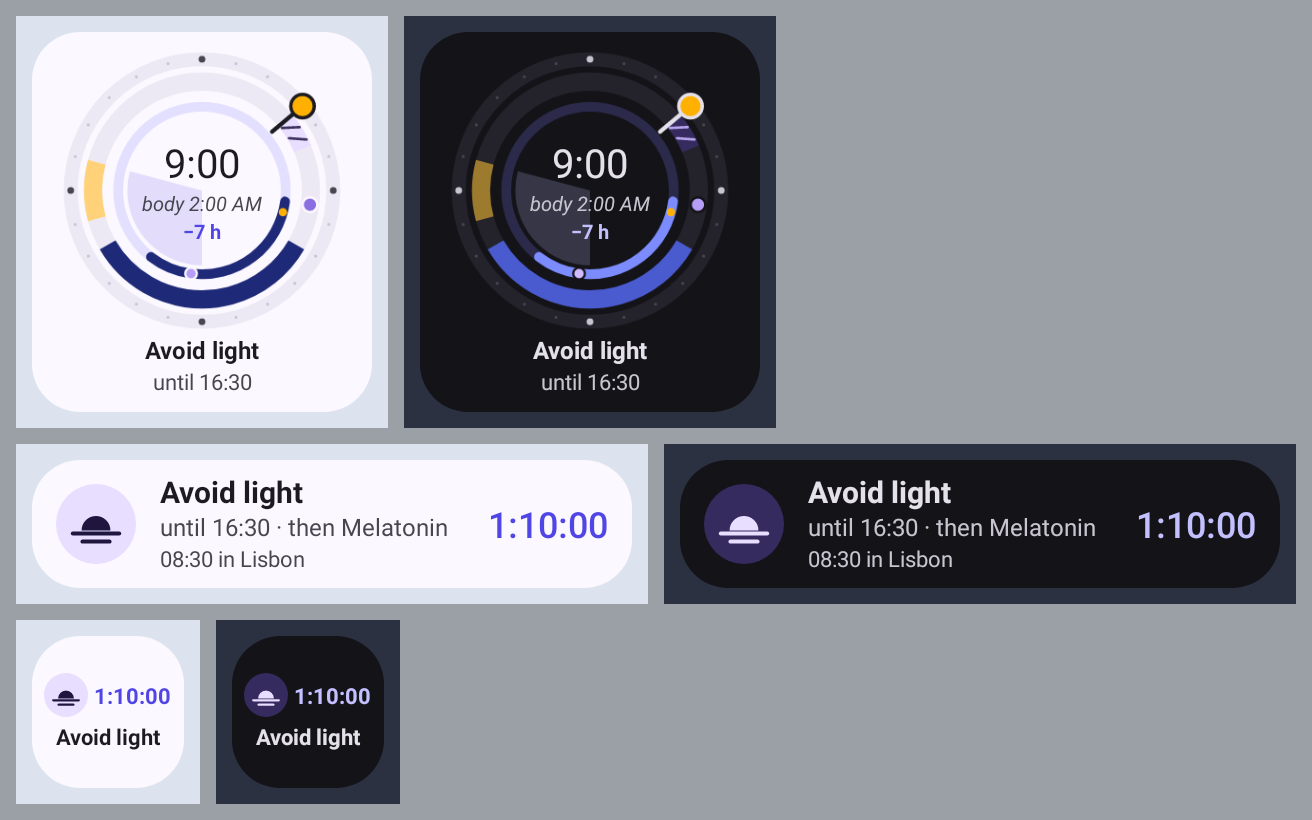
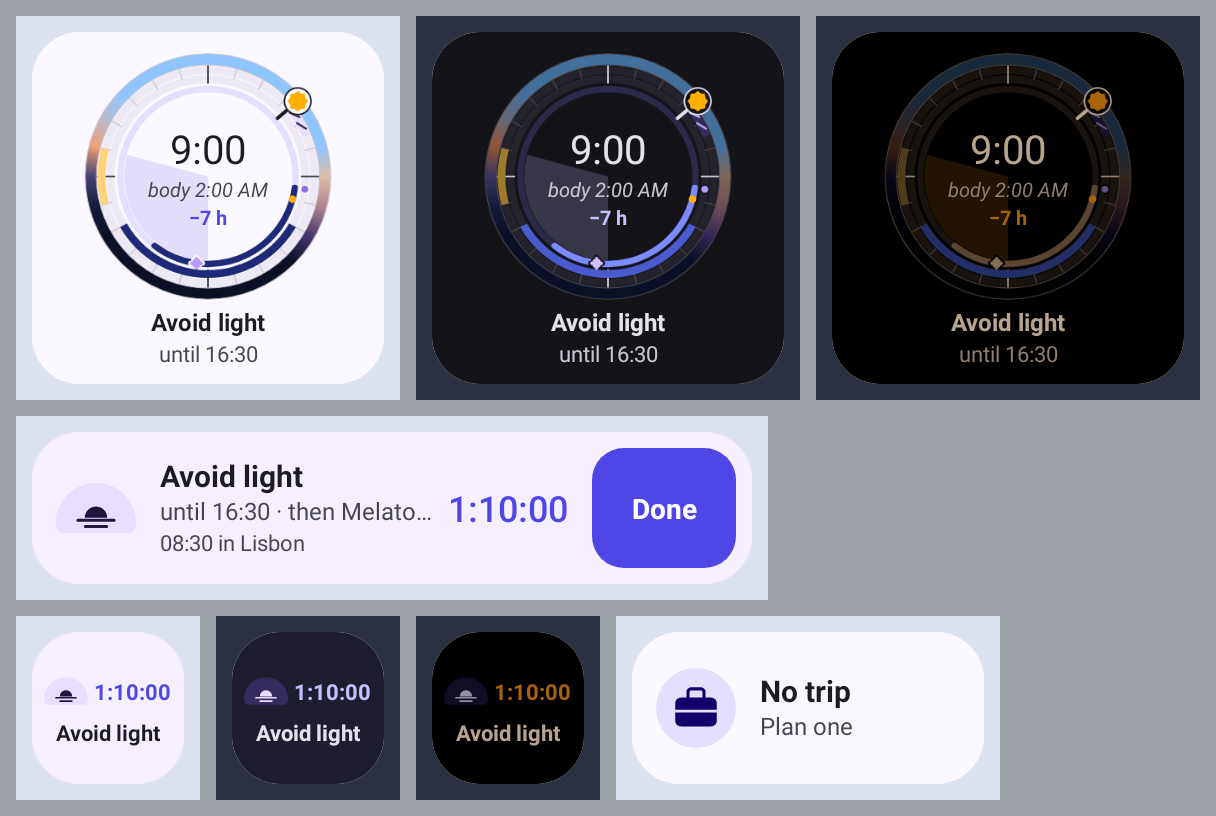
docs: widget sizes, Done, night-safe theme and refreshed goldens

diff --git a/widget/src/main/kotlin/dev/sebastiano/clockblocker/opus/widget/draw/WidgetPalette.kt b/widget/src/main/kotlin/dev/sebastiano/clockblocker/opus/widget/draw/WidgetPalette.kt
@@ -74,8 +74,6 @@ data class WidgetPalette(
     }
 
     companion object {
-        fun of(dark: Boolean): WidgetPalette = if (dark) Dark else Light
-
         fun of(theme: WidgetTheme): WidgetPalette = when (theme) {
             WidgetTheme.Light -> Light
             WidgetTheme.Dark -> Dark

diff --git a/docs/surfaces.md b/docs/surfaces.md
@@ -162,16 +162,55 @@ The `:widget` module provides two widgets. Both can be placed on the home screen
 category too, which matters on tablets and in hub mode. On phones, the lock-screen view of the plan is the Now
 notification.
 
-![Two Clocks widgets in light and dark at 2×2 and 4×2, plus the empty state "No trip, Plan one"](screenshots/widgets/remote_two_clocks.png)
+![Two Clocks widgets: the 2×2 dial in light, dark and night-safe, the empty state "No trip, Plan one", and the 4×2 layout with its now card and Done button](screenshots/widgets/remote_two_clocks.png)
 
-The *Two Clocks* widget shows local time and the body clock on one dial ("body 08:20, −7 h"), with the current
-advice and when it ends. The wider size adds what comes next and the time in the other zone. With no trip, it
-shows "No trip" and "Plan one".
+The *Two Clocks* widget shows local time and the body clock on one dial ("body 08:20, −7 h"). The outer ring
+follows the sky over the local day. Inside it, two lanes show light advice and rest advice. The body ring marks
+biological night and the body-temperature minimum. With no trip, the dial says "No trip" and "Plan one".
 
-![Next up widgets in several sizes: a full row with a countdown, compact 1×1 tiles, "Free time", "Clockblocked" and the empty state](screenshots/widgets/remote_next_up.png)
+![Next up widgets: 4×1 rows with a countdown and Done, 2×1 "Free time" in every theme, 1×1 tiles and the empty state](screenshots/widgets/remote_next_up.png)
 
-The *Next up* widget shows the current advice with a countdown. The smallest size shows only the countdown and a
+The *Next up* widget shows the current advice with a countdown. The 1×1 tile shows only the countdown and a
 short label. When the plan has no advice left, it shows "Clockblocked".
+
+### Sizes
+
+Each widget picks a layout for the space it gets. On API 31+ the launcher picks from the size map and swaps
+layouts while the user resizes. On older launchers the app picks the largest layout that fits the reported size.
+Both backends have the same layouts.
+
+| Cells | Two Clocks | Next up |
+|---|---|---|
+| 1×1 | Dial with local time and the jet lag offset | Glyph, countdown and label |
+| 2×1 | — | Glyph, label and "until" line |
+| 4×1 | — | Row with the countdown, the other zone's time and Done |
+| 2×2 | Dial and a two-line caption | Countdown, label, "until / then", the other zone and Done |
+| 4×2 | Dial, a now card ("Tokyo · Day 2", label, times) and Done | The 4×1 row plus three "Up next" capsules |
+| 2×3 | Dial, now card and Done | The 2×2 stack plus two "Up next" rows |
+| 4×3 | The 4×2 layout plus three "Up next" rows and the adaptation bar | The 2×3 stack, wider |
+
+![Two Clocks at 1×1, 2×3, 4×2 and 4×3, including night-safe, a logged Done and the adaptation bar](screenshots/widgets/remote_two_clocks_buckets.png)
+
+![Next up at 2×2, 2×3, 4×2 and 4×3, including "Skipped" and "✓ Done" chips and the adapted state](screenshots/widgets/remote_next_up_buckets.png)
+
+### Done
+
+The larger layouts have a Done button (48 dp tall) for the current advice. It sends the same broadcast as the
+notification's Done action
+([`NotificationIntents.widgetDone`](../core/notifications/src/main/kotlin/dev/sebastiano/clockblocker/opus/core/notifications/NotificationIntents.kt)),
+so the advice log, notifications and widgets all update the same way. Once something is logged for that advice,
+the button turns into a chip in the same spot: "✓ Done", or "Skipped" for skipped and can't-do. Free time,
+flights and the empty state have no Done button.
+
+The button and the rest of the widget are separate tap targets that don't overlap, so each tap has one target. On
+Remote Compose the button is a second host action; on classic `RemoteViews` it is its own
+`setOnClickPendingIntent`.
+
+### Themes
+
+Widgets follow the app's theme setting (light, dark or system). When "Night-safe automatically" is on and the
+current advice is avoid light or sleep, they switch to night-safe: true black, dim amber text and buttons, no
+tinted cards, and dimmed advice colours and sky.
 
 ### How widgets render
 
@@ -194,19 +233,21 @@ animates the dial hand itself. Otherwise it falls back to classic `RemoteViews` 
 [`LegacyRefresh`](../widget/src/main/kotlin/dev/sebastiano/clockblocker/opus/widget/legacy/LegacyRefresh.kt)
 redraws that bitmap about every 15 minutes with an inexact alarm that doesn't wake the device.
 
-![The RemoteViews fallback: the Two Clocks dial, a Next up row and a 1×1 tile, in light and dark](screenshots/widgets/legacy_widgets.png)
+![The RemoteViews fallback: the 2×2 Two Clocks widget in light, dark and night-safe, a 4×1 Next up row, 1×1 tiles and the empty state](screenshots/widgets/legacy_widgets.png)
 
-The fallback looks almost the same. The countdown is a system `Chronometer` instead of a drawn number.
+The fallback looks almost the same. The countdown is a system `Chronometer` instead of a drawn number, and the
+clocks are system `TextClock`s. The goldens `legacy_two_clocks_buckets.png` and `legacy_next_up_buckets.png` cover
+every size.
 
 Other widget behaviour:
 
 - Widgets refresh when the scheduler refreshes `PlanSurface`s, and also on their own system broadcasts (update,
   resize, time set, zone change, locale change). `updatePeriodMillis` is 0: there is no polling.
 - Tapping a widget opens the plan through a deep link. In the empty state, it opens the trip editor.
-- Widgets follow the app's theme setting. When "Night-safe automatically" is on and the plan says to avoid light
-  or sleep, they turn dark.
 - On API 35 and later, the widget picker shows generated previews built from a demo plan
   ([`DemoPlans.kt`](../widget/src/main/kotlin/dev/sebastiano/clockblocker/opus/widget/preview/DemoPlans.kt)).
+  They are published again when the app version or the system night mode changes, so the picker matches the
+  current theme.
 
 The widget goldens are in [`widget/src/test/screenshots`](../widget/src/test/screenshots). The images on this page
 are copies of them.

diff --git a/user-guide/widgets-and-notifications.md b/user-guide/widgets-and-notifications.md
@@ -52,25 +52,30 @@ drag the widget you want onto the screen. You can resize both widgets.
 
 ### Two Clocks
 
-<img src="images/widget-two-clocks.png" alt="Two Clocks widgets in light and dark, small and wide. The dial shows 15:20 local time, body 08:20, −7 h, with Avoid light until 16:30. The wide version adds then Melatonin and 08:30 in Lisbon. The bottom row shows the empty state: No trip, Plan one." width="480" />
+<img src="images/widget-two-clocks.png" alt="Two Clocks widgets. Top row: the small dial in light, dark and night-safe (black and amber), showing 15:20 local time, body 08:20, −7 h, and Avoid light until 16:30, then the empty state: No trip, Plan one. Bottom row: the wide version in light and dark, with a card saying Tokyo · Day 2, Avoid light until 16:30, then Melatonin, 08:30 in Lisbon, and a Done button." width="480" />
 
 The *Two Clocks* widget is a small version of the dial in the app. It shows the local time, the time your body
 clock thinks it is ("body 08:20"), the gap between them ("−7 h": your body is 7 hours behind), and the current
-block with its end time. The wide version also shows what comes next and the time in your other time zone.
+block with its end time. The outer ring follows the sky through the day. The bigger sizes add a card with the
+place and plan day ("Tokyo · Day 2"), what comes next, the time in your other time zone, and a **Done** button.
+The biggest size also lists the next blocks and how far you've adapted.
 
 ### Next up
 
-<img src="images/widget-next-up.png" alt="Next up widgets in light and dark: a row saying Avoid light until 16:30, then Melatonin, with a 1h 10m countdown; Free time; small tiles with Sleep 5h40m and Avoid light 1h10m; Clockblocked; and No trip, Plan one." width="480" />
+<img src="images/widget-next-up.png" alt="Next up widgets: rows in light and dark saying Avoid light until 16:30, then Melatonin, 08:30 in Lisbon, with a 1h 10m countdown and a Done button; Free time in light, dark and night-safe; small tiles with Sleep 5h40m, Avoid light 1h10m and Clockblocked; and No trip, Plan one." width="480" />
 
 The *Next up* widget shows the current block with a countdown. The smallest size shows only the countdown and a
-short label. It says "Free time" when there's nothing to do, and "Clockblocked" when your plan is finished.
+short label. Bigger sizes add a **Done** button, and the tallest and widest ones list what's up next. It says
+"Free time" when there's nothing to do, and "Clockblocked" when your plan is finished.
 
 ### Good to know
 
 - Tap a widget to open the plan. With no trip planned, the widgets say "No trip · Plan one", and a tap opens the
   new trip screen.
+- Tap **Done** on a widget to mark the current block as done, just like the button on the notification. The button
+  then turns into "✓ Done" (or "Skipped" if you skipped it elsewhere).
 - The widgets follow the app's theme. When "Night-safe automatically" is on and your plan says to avoid light or
-  sleep, they turn dark too.
+  sleep, they switch to a black and amber look that won't light up a dark room.
 - The widgets update when your plan changes and at each block boundary. They don't drain your battery by checking
   all the time.
 

diff --git a/README.md b/README.md
@@ -60,7 +60,7 @@ To use the app, read the [user guide](user-guide/README.md). To understand or ch
 - JSON backup and restore, and calendar (ICS) export of any plan.
 
 <p align="center">
-  <img src="docs/screenshots/widgets/remote_two_clocks.png" alt="Two Clocks widgets in light and dark, small and wide: the dial shows 15:20 local, body 08:20, −7 h, with Avoid light until 16:30; the bottom row shows the empty state, No trip, Plan one" width="48%" />
+  <img src="docs/screenshots/widgets/remote_two_clocks.png" alt="Two Clocks widgets: the small dial in light, dark and night-safe shows 15:20 local, body 08:20, −7 h, with Avoid light until 16:30, next to the empty state, No trip, Plan one; below, the wide version adds a Tokyo · Day 2 card and a Done button" width="48%" />
   <img src="docs/screenshots/plan-tablet.png" alt="The plan on a tablet in landscape: the dial and a See bright light Now card on the left, the Day 2 timeline on the right" width="48%" />
 </p>
 

diff --git a/docs/testing.md b/docs/testing.md
@@ -33,8 +33,8 @@ The screenshot tests are JUnit 4 tests too, so they also run in `./gradlew test`
 | `:feature:plan` | 82 | 21 |
 | `:feature:settings` | 56 | 26 |
 | `:feature:trips` | 71 | 21 |
-| `:widget` | 56 | 6 |
-| **Total** | **842** | **158** |
+| `:widget` | 72 | 11 |
+| **Total** | **858** | **163** |
 
 The counts come from the JUnit reports of a full `./gradlew test` run at the time of writing. They will grow.
 
